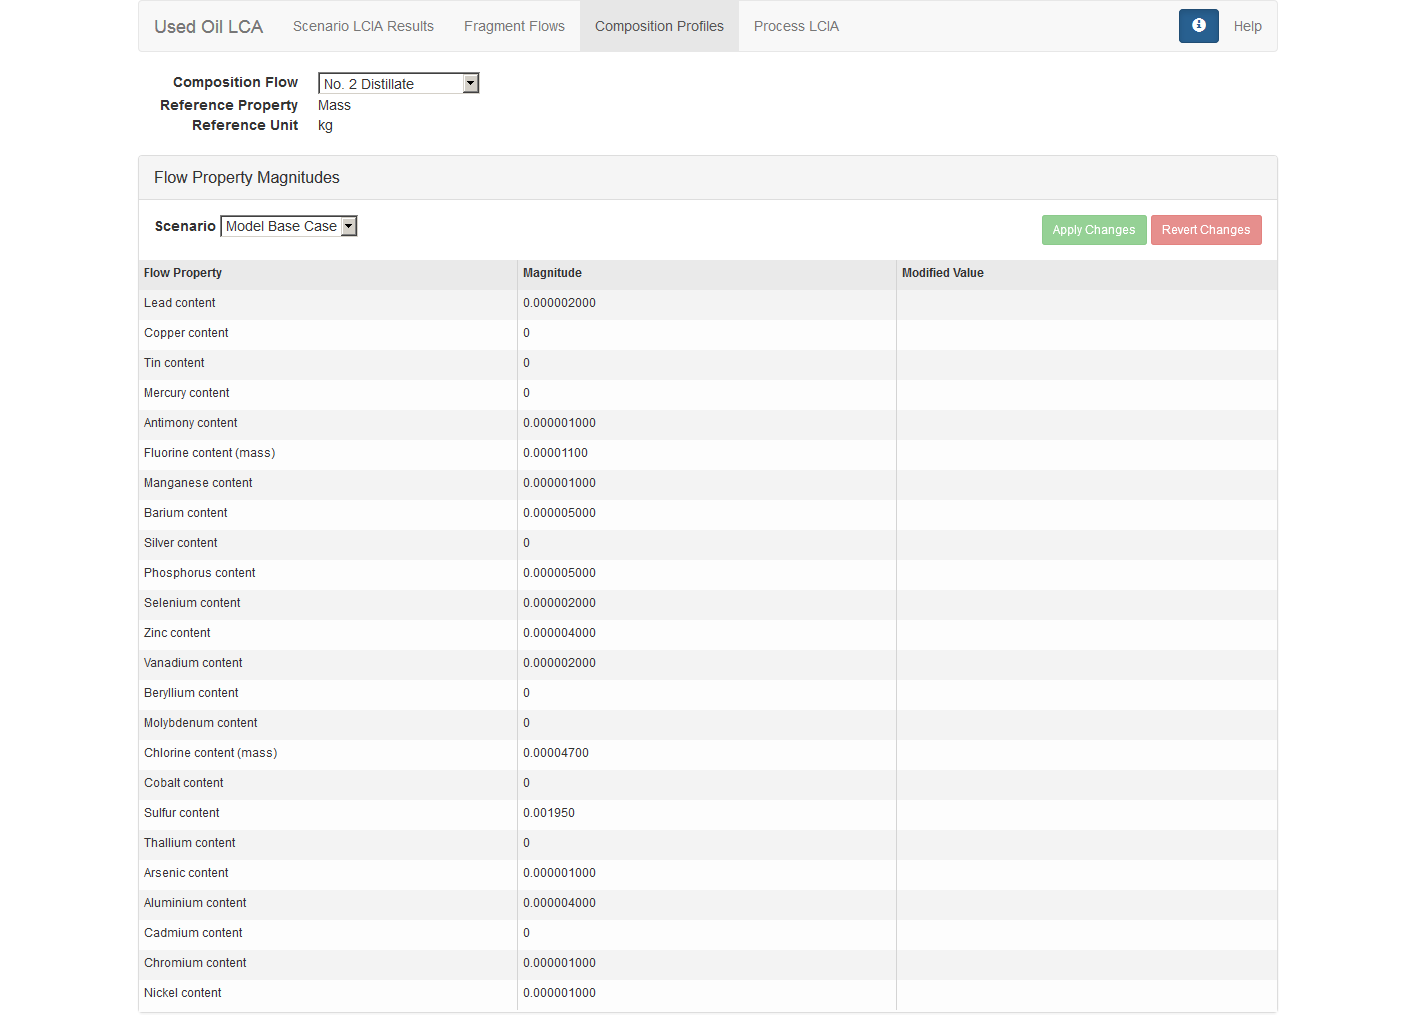
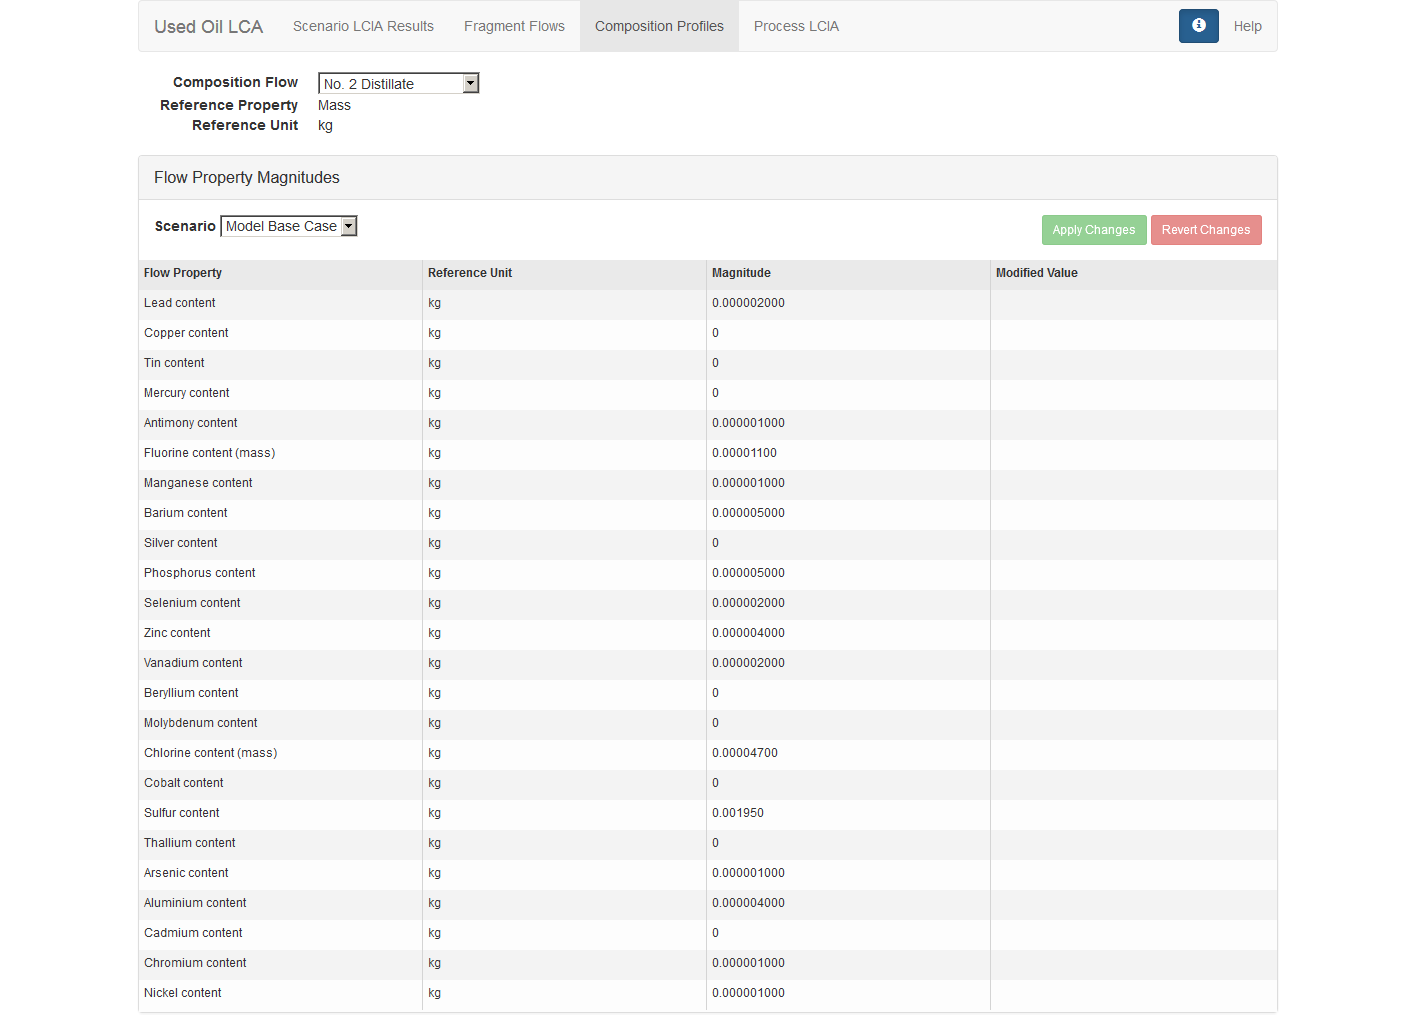
Vis: Composition Profiles: Add Reference Unit to grid (#235)

diff --git a/app/composition-profiles/composition-profiles.js b/app/composition-profiles/composition-profiles.js
@@ -112,9 +112,10 @@ angular.module('lcaApp.compositionProfiles',
                         data: [],
                         columns: [
                             {field: 'flowPropertyName', displayName: 'Flow Property', enableCellEdit: false},
+                            {field: 'referenceUnit', displayName: 'Reference Unit', enableCellEdit: false},
                             {field: 'magnitude', displayName: 'Magnitude', cellFilter: 'numFormat', enableCellEdit: false}
                         ],
-                        params: {targetIndex: 1, canUpdate: false}
+                        params: {targetIndex: 2, canUpdate: false}
                     };
 
                 grid.canApply = function () {
@@ -147,13 +148,14 @@ angular.module('lcaApp.compositionProfiles',
                         gridData = [];
                     magnitudes.forEach(
                         /**
-                         * @param {{ flowProperty : { flowPropertyID: number, name : string }, magnitude : number}} fpm
+                         * @param {{ flowProperty : { flowPropertyID: number, name : string, referenceUnit: string }, magnitude : number}} fpm
                          */
                         function (fpm) {
                         var row = {
                             flowPropertyID : fpm.flowProperty.flowPropertyID,
                             flowPropertyName : fpm.flowProperty.name,
-                            magnitude : fpm.magnitude
+                            magnitude : fpm.magnitude,
+                            referenceUnit : fpm.flowProperty.referenceUnit
                         };
                         gridData.push(row);
                     });
